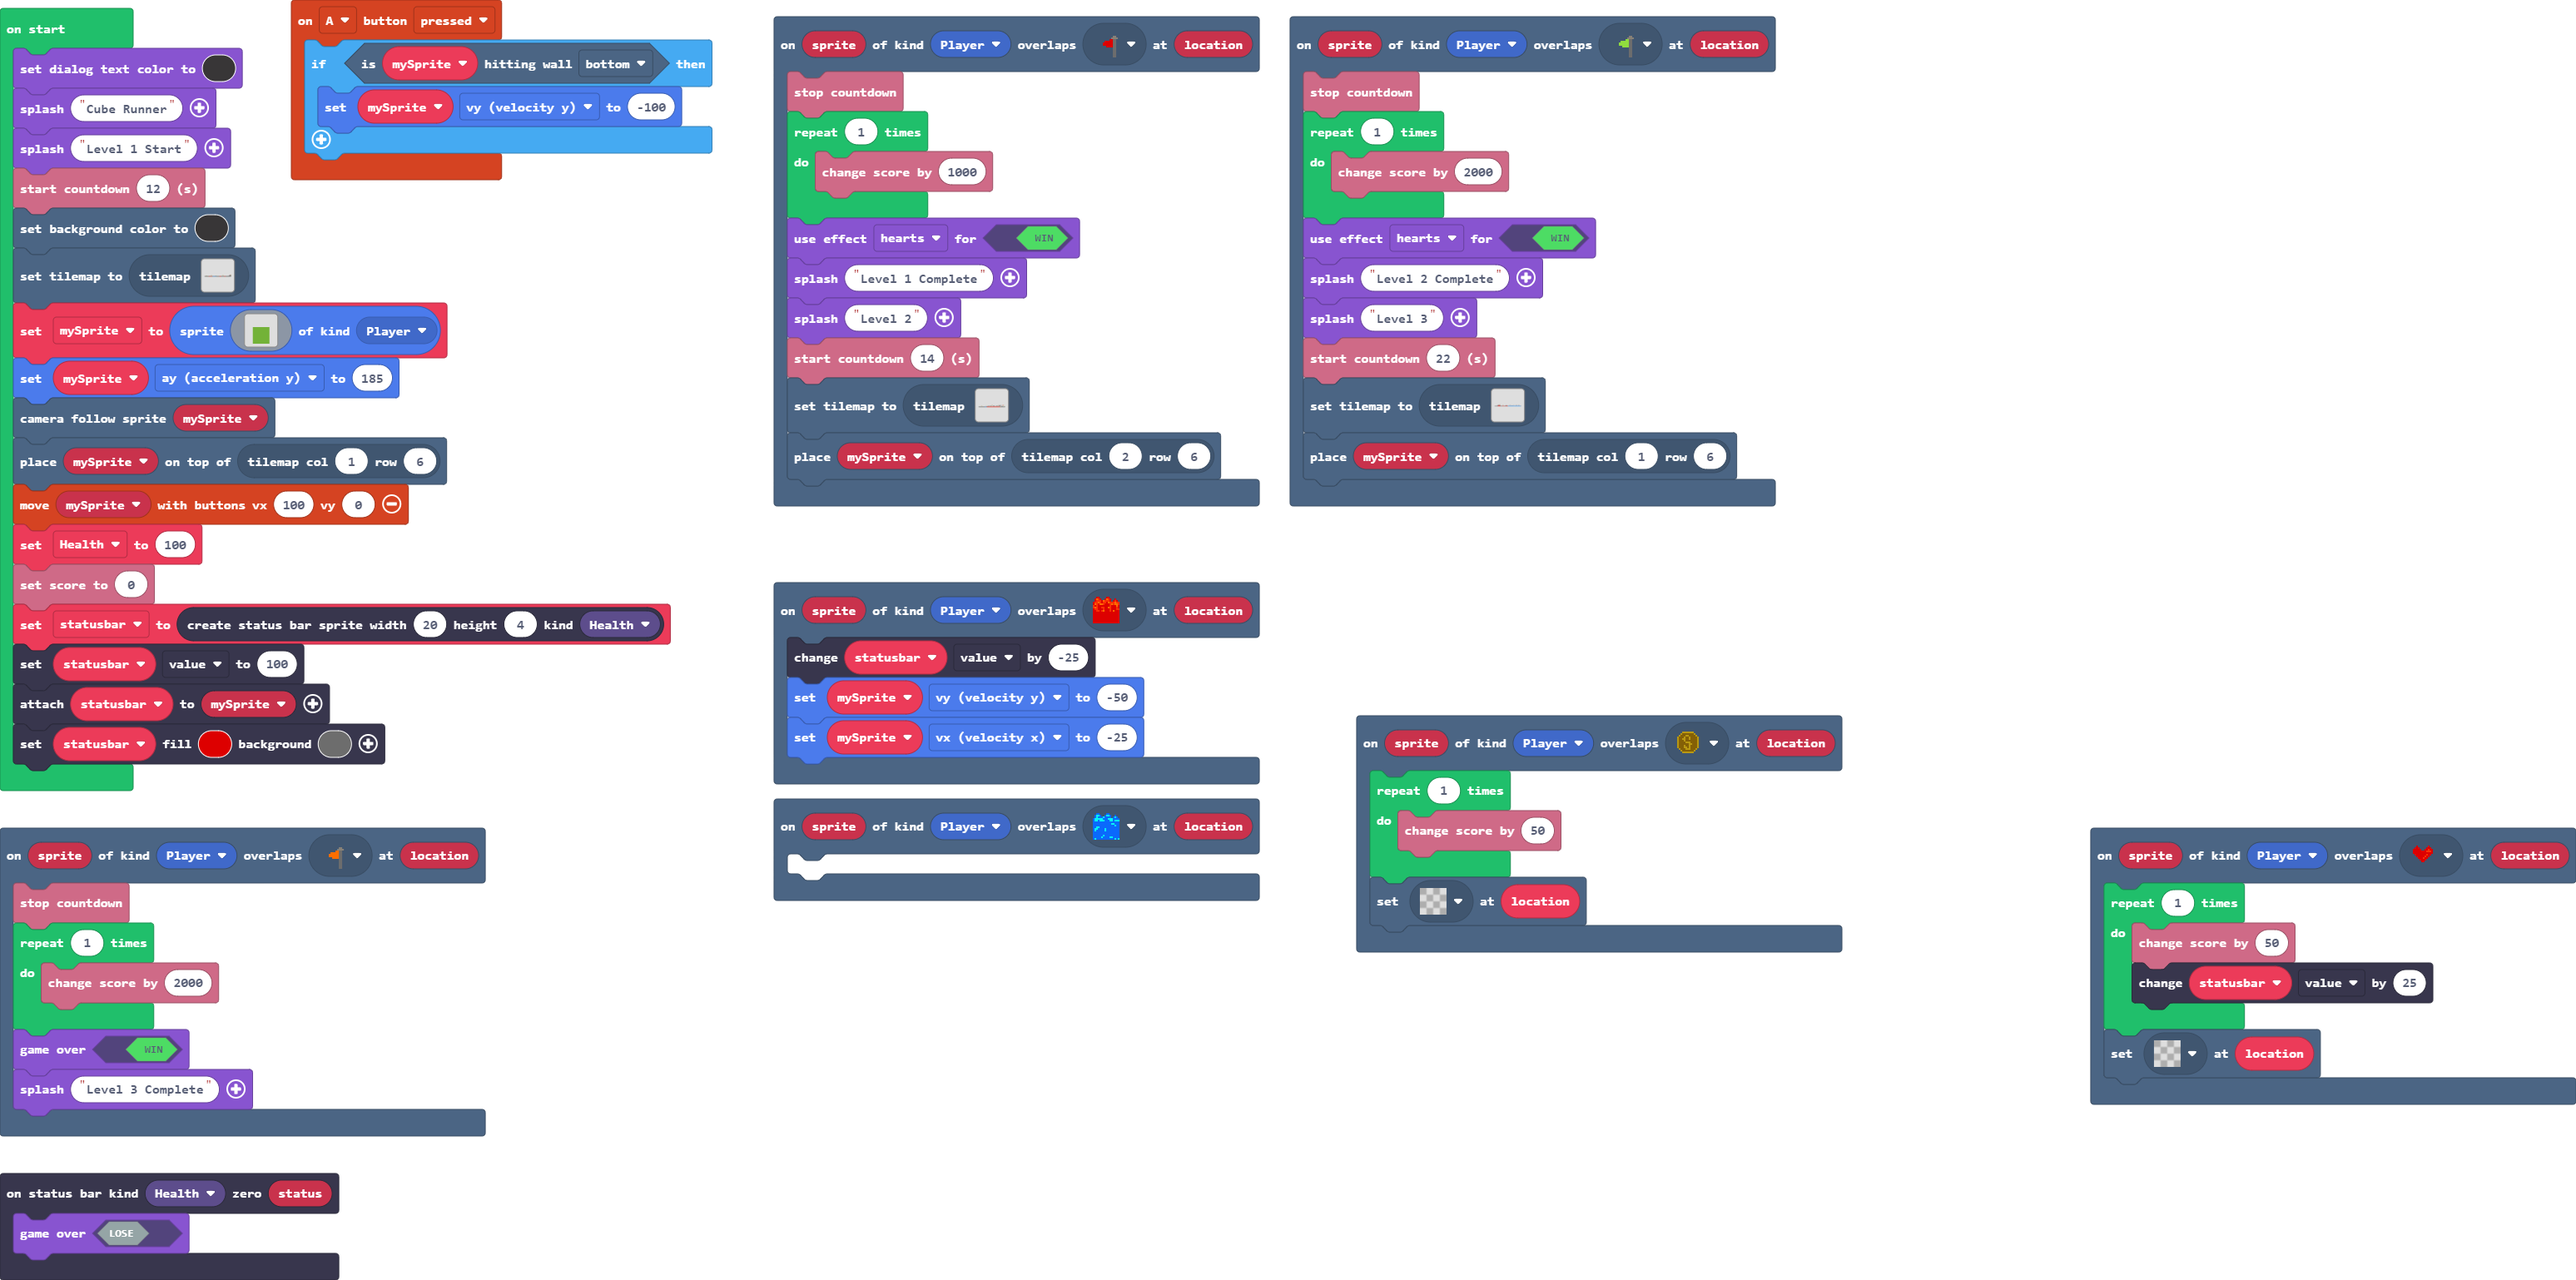
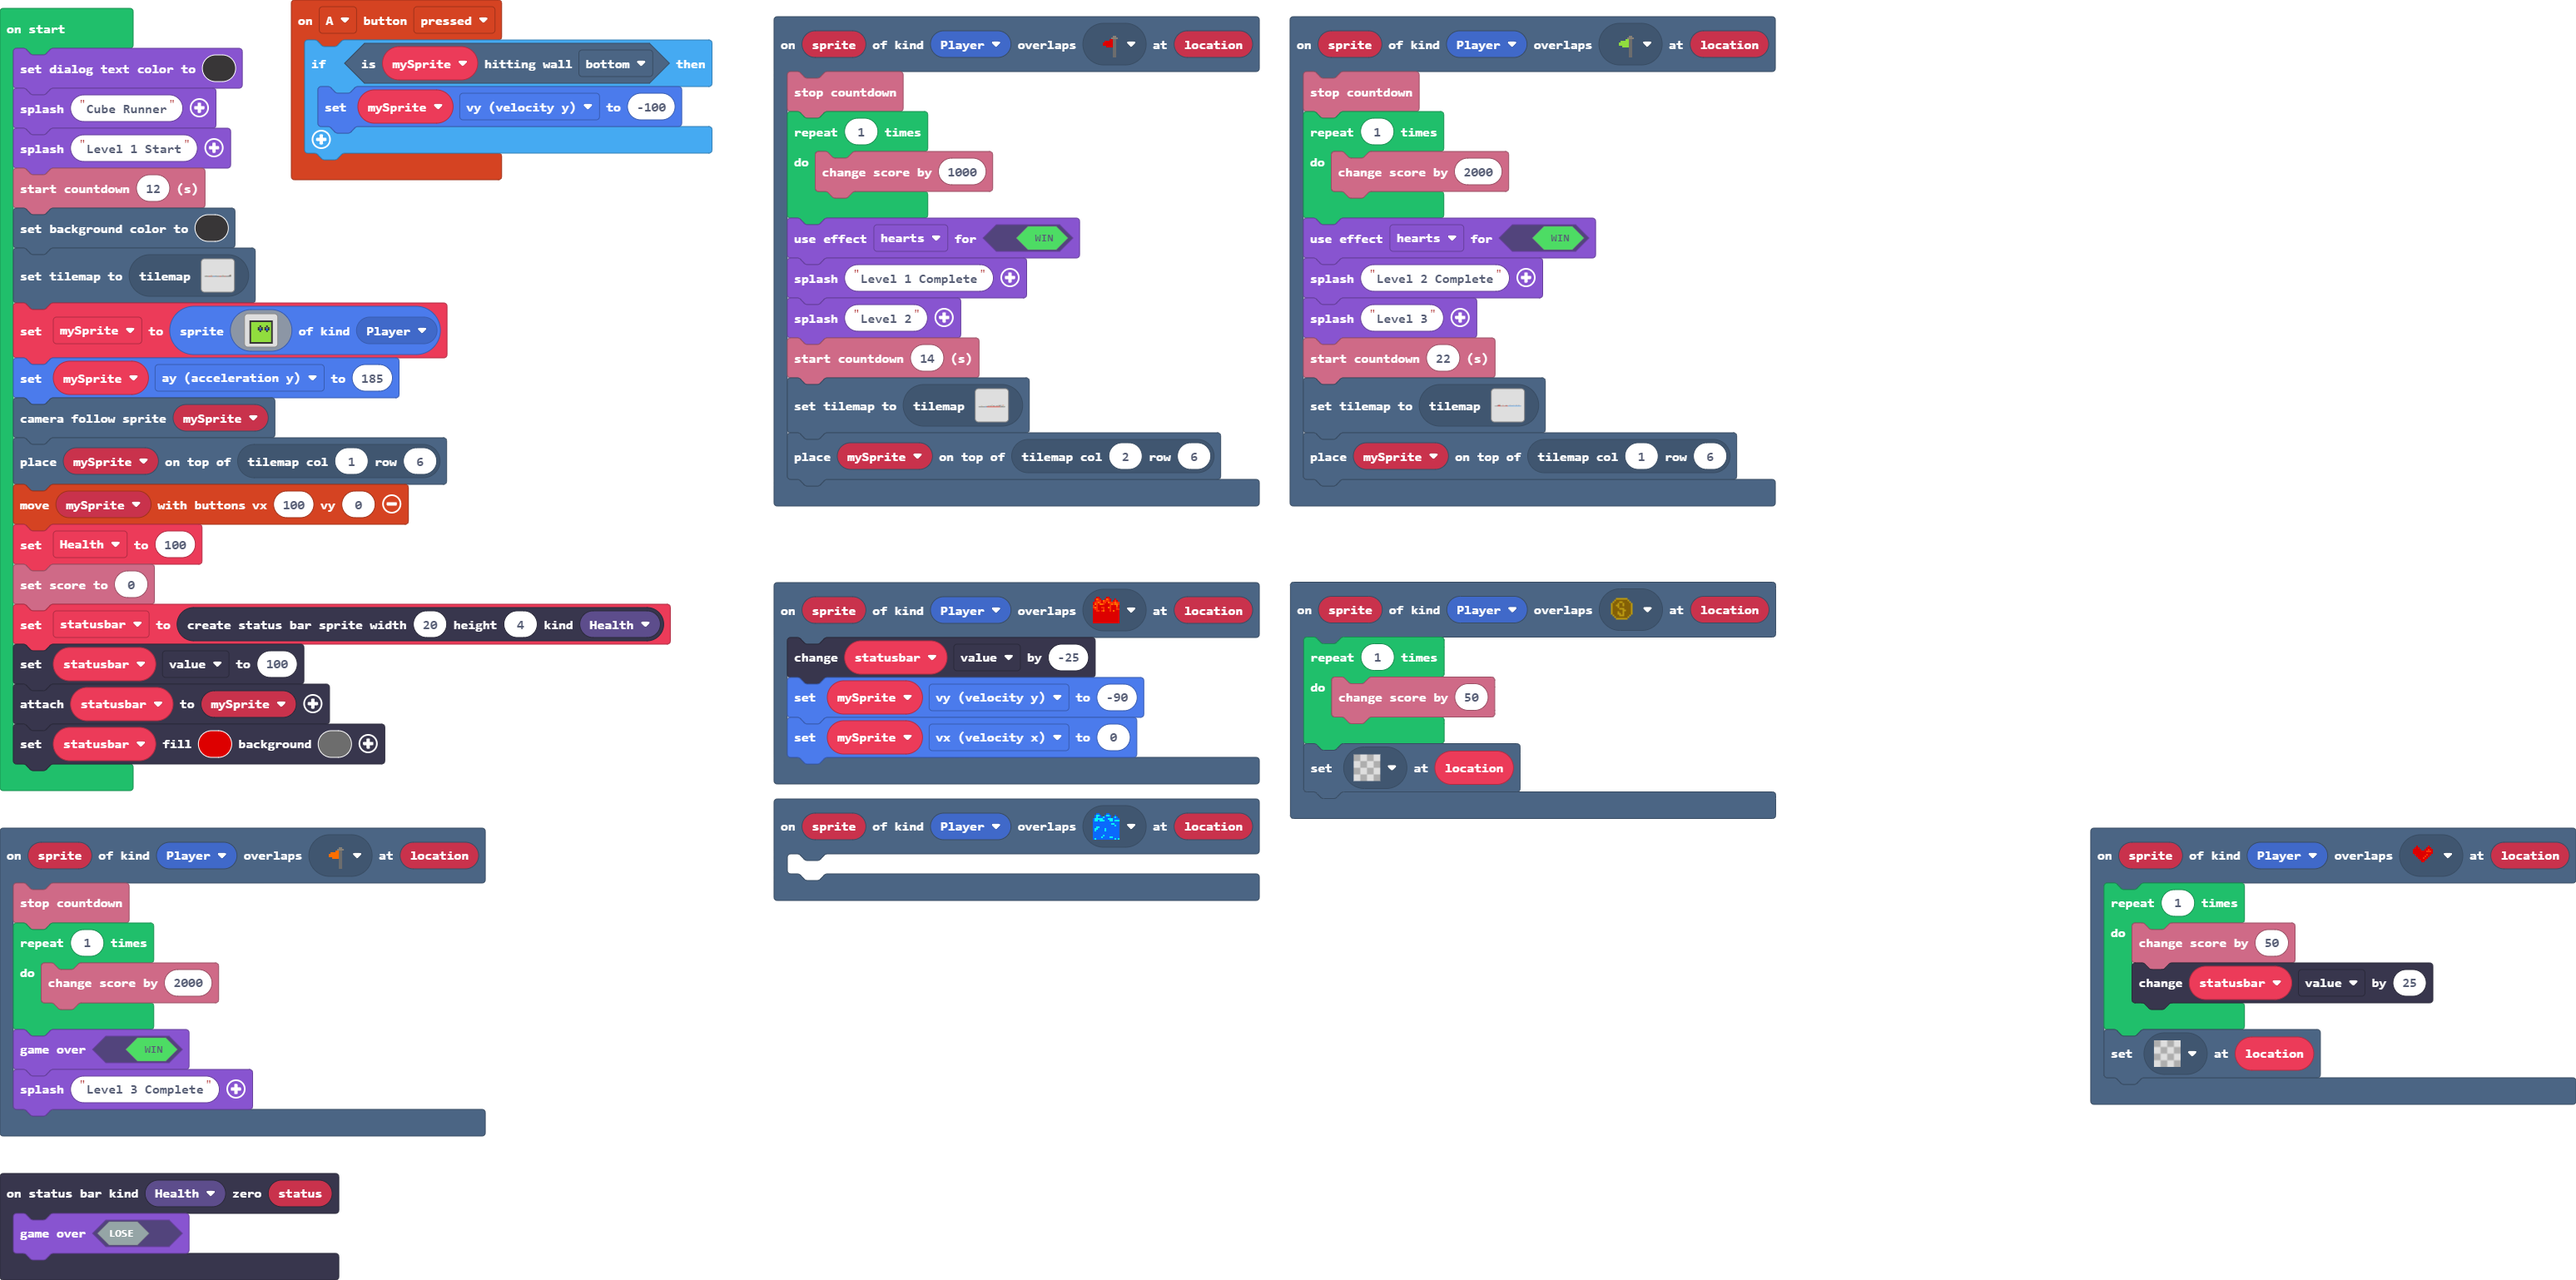
Update main.blocks, main.ts

Changed region(s): [[0.4963, 0.4369, 0.7134, 0.749], [0.4342, 0.5618, 0.4653, 0.593], [0.0931, 0.2497, 0.1241, 0.2809]]

diff --git a/main.ts b/main.ts
@@ -24,8 +24,8 @@ scene.onOverlapTile(SpriteKind.Player, assets.tile`Coin`, function (sprite, loca
 })
 scene.onOverlapTile(SpriteKind.Player, assets.tile`myTile`, function (sprite, location) {
     statusbar.value += -25
-    mySprite.vy = -50
-    mySprite.vx = -25
+    mySprite.vy = -90
+    mySprite.vx = 0
 })
 controller.A.onEvent(ControllerButtonEvent.Pressed, function () {
     if (mySprite.isHittingTile(CollisionDirection.Bottom)) {
@@ -73,20 +73,20 @@ tiles.setCurrentTilemap(tilemap`level1`)
 mySprite = sprites.create(img`
     . . . . . . . . . . . . . . . . 
     . . . . . . . . . . . . . . . . 
-    . . . . . . . . . . . . . . . . 
-    . . . . . . . . . . . . . . . . 
-    . . . . . . . . . . . . . . . . 
-    . . . . . . . . . . . . . . . . 
-    . . . 2 2 2 2 2 2 2 2 2 2 . . . 
-    . . . 2 2 2 2 2 2 2 2 2 2 . . . 
-    . . . 2 2 2 2 2 2 2 2 2 2 . . . 
-    . . . 2 2 2 2 2 2 2 2 2 2 . . . 
-    . . . 2 2 2 2 2 2 2 2 2 2 . . . 
-    . . . 2 2 2 2 2 2 2 2 2 2 . . . 
-    . . . 2 2 2 2 2 2 2 2 2 2 . . . 
-    . . . 2 2 2 2 2 2 2 2 2 2 . . . 
-    . . . 2 2 2 2 2 2 2 2 2 2 . . . 
-    . . . 2 2 2 2 2 2 2 2 2 2 . . . 
+    . a a a a a a a a a a a a a a . 
+    . a 4 4 4 4 4 4 4 4 4 4 4 4 a . 
+    . a 4 4 4 4 4 4 4 4 4 4 4 4 a . 
+    . a 4 4 4 4 4 a 4 4 4 a 4 4 a . 
+    . a 4 4 4 4 a 3 a 4 a 3 a 4 a . 
+    . a 4 4 4 4 a b a 4 a b a 4 a . 
+    . a 4 4 4 4 4 a 4 4 4 a 4 4 a . 
+    . a 4 4 4 4 4 4 4 4 4 4 4 4 a . 
+    . a 4 4 4 4 4 4 4 4 4 4 4 4 a . 
+    . a 4 4 4 4 4 4 4 4 4 4 4 4 a . 
+    . a 4 4 4 4 4 4 4 4 4 4 4 4 a . 
+    . a 4 4 4 4 4 4 4 4 4 4 4 4 a . 
+    . a 4 4 4 4 4 4 4 4 4 4 4 4 a . 
+    . a a a a a a a a a a a a a a . 
     `, SpriteKind.Player)
 mySprite.ay = 185
 scene.cameraFollowSprite(mySprite)
